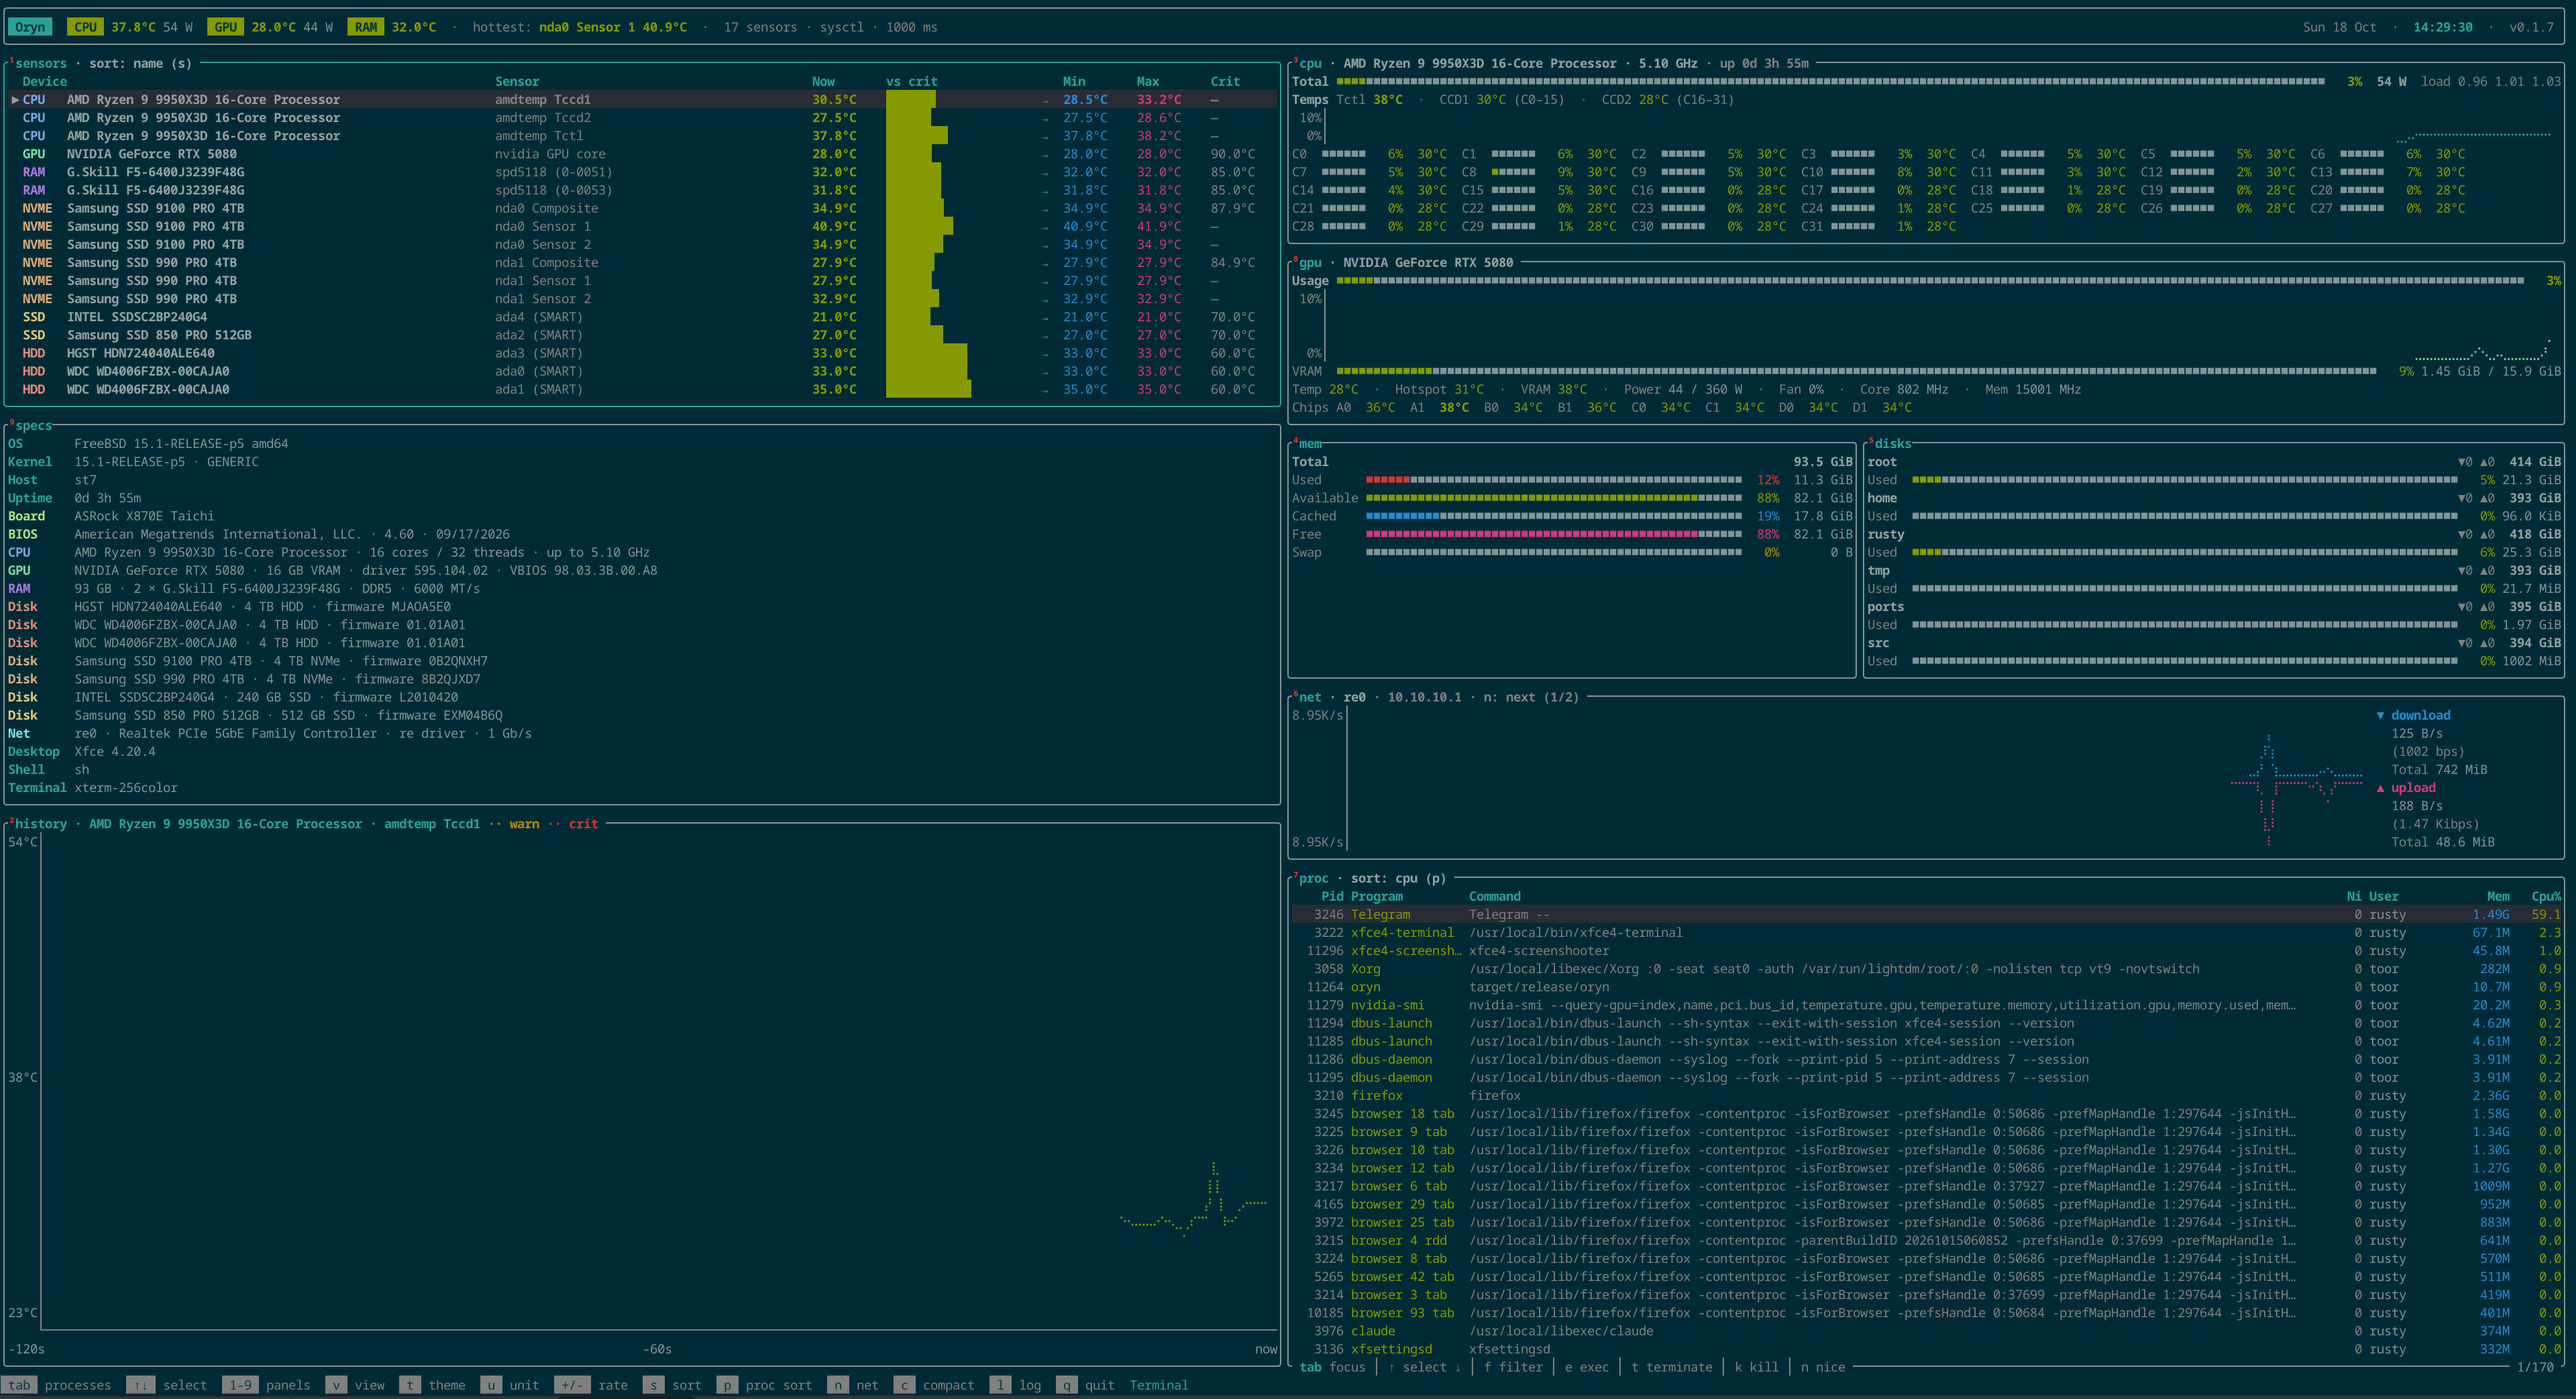
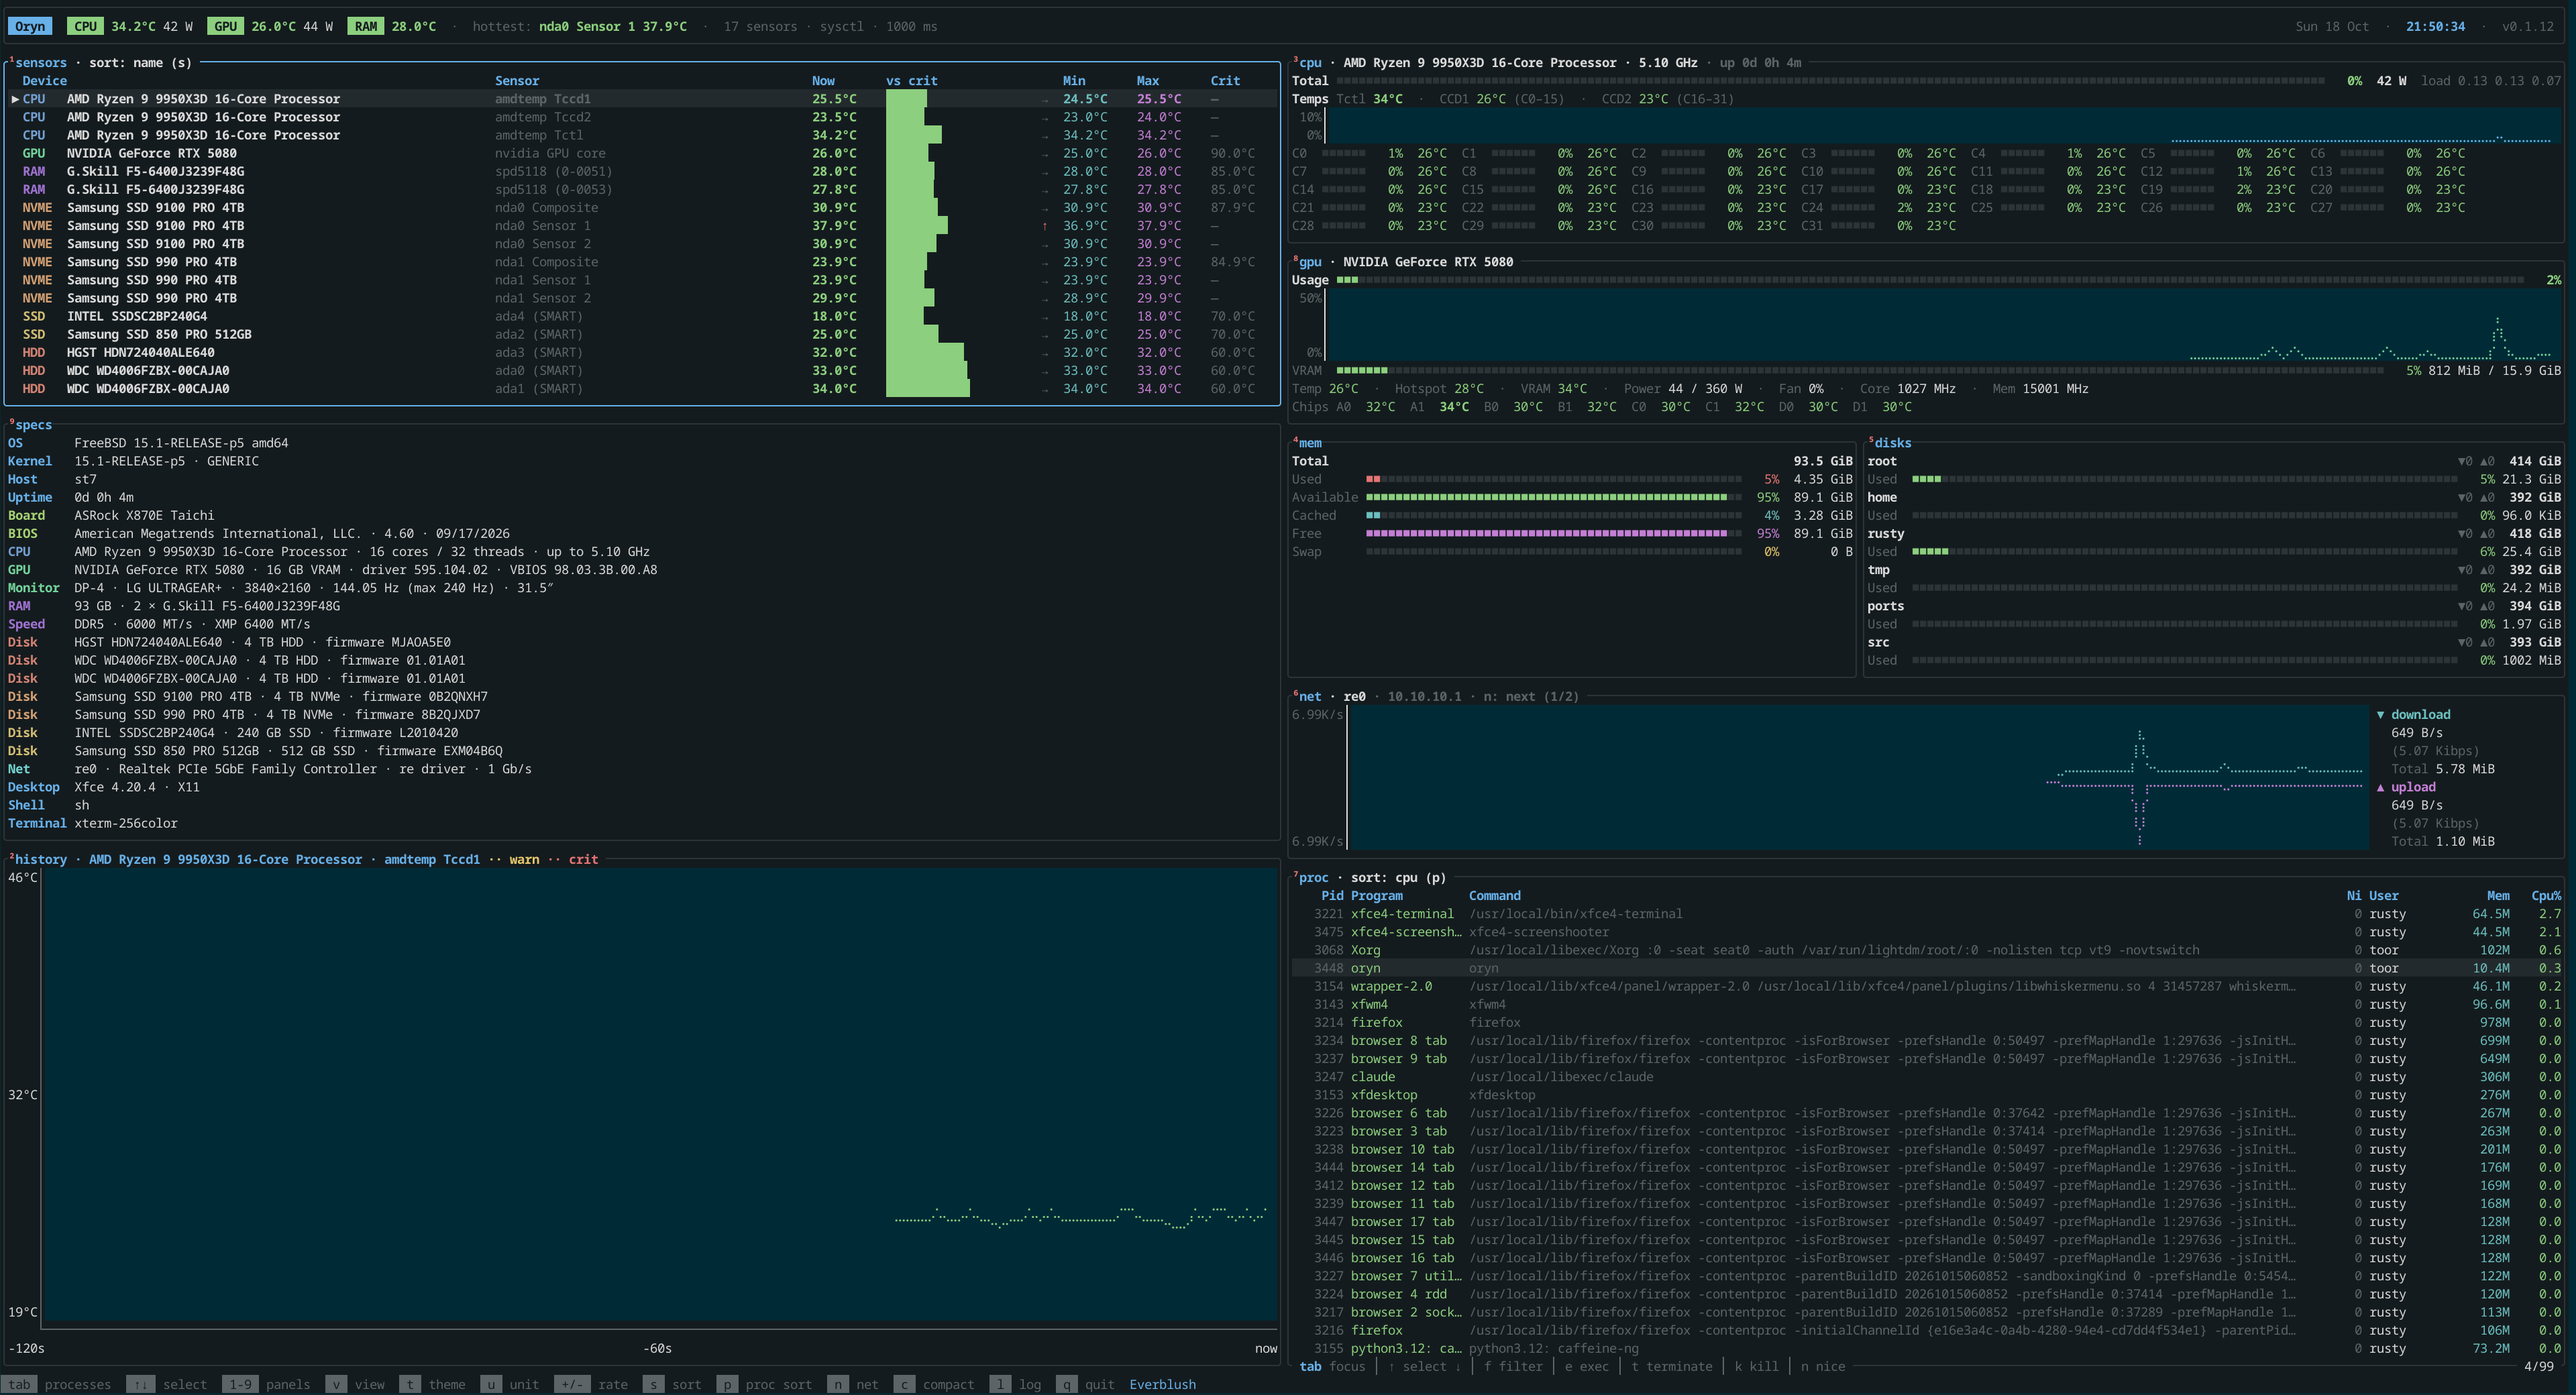
New FreeBSD README screenshot for 0.1.12

Changed region(s): [[0.0, 0.0, 1.0, 1.0], [0.0, 0.0, 0.375, 0.625], [0.4688, 0.5625, 0.5, 0.5938]]

diff --git a/README.md b/README.md
@@ -13,9 +13,9 @@ you can show, hide and rearrange.
 
 <sub>Screenshot: `oryn --demo` on Linux in the Tokyo Night scheme, with simulated sensors and load.</sub>
 
-![Oryn on FreeBSD 15.1 with a Ryzen 9 9950X3D and an RTX 5080](docs/screenshot-freebsd.png)
+![Oryn on FreeBSD 15.1 in the Everblush color scheme, with a Ryzen 9 9950X3D and an RTX 5080](docs/screenshot-freebsd.png)
 
-<sub>Screenshot: `sudo oryn` on FreeBSD 15.1 (Ryzen 9 9950X3D, RTX 5080, DDR5, NVMe and SATA drives), real sensors.</sub>
+<sub>Screenshot: `sudo oryn` on FreeBSD 15.1 in the Everblush scheme (Ryzen 9 9950X3D, RTX 5080, DDR5, NVMe and SATA drives), real sensors.</sub>
 
 ## Features
 
